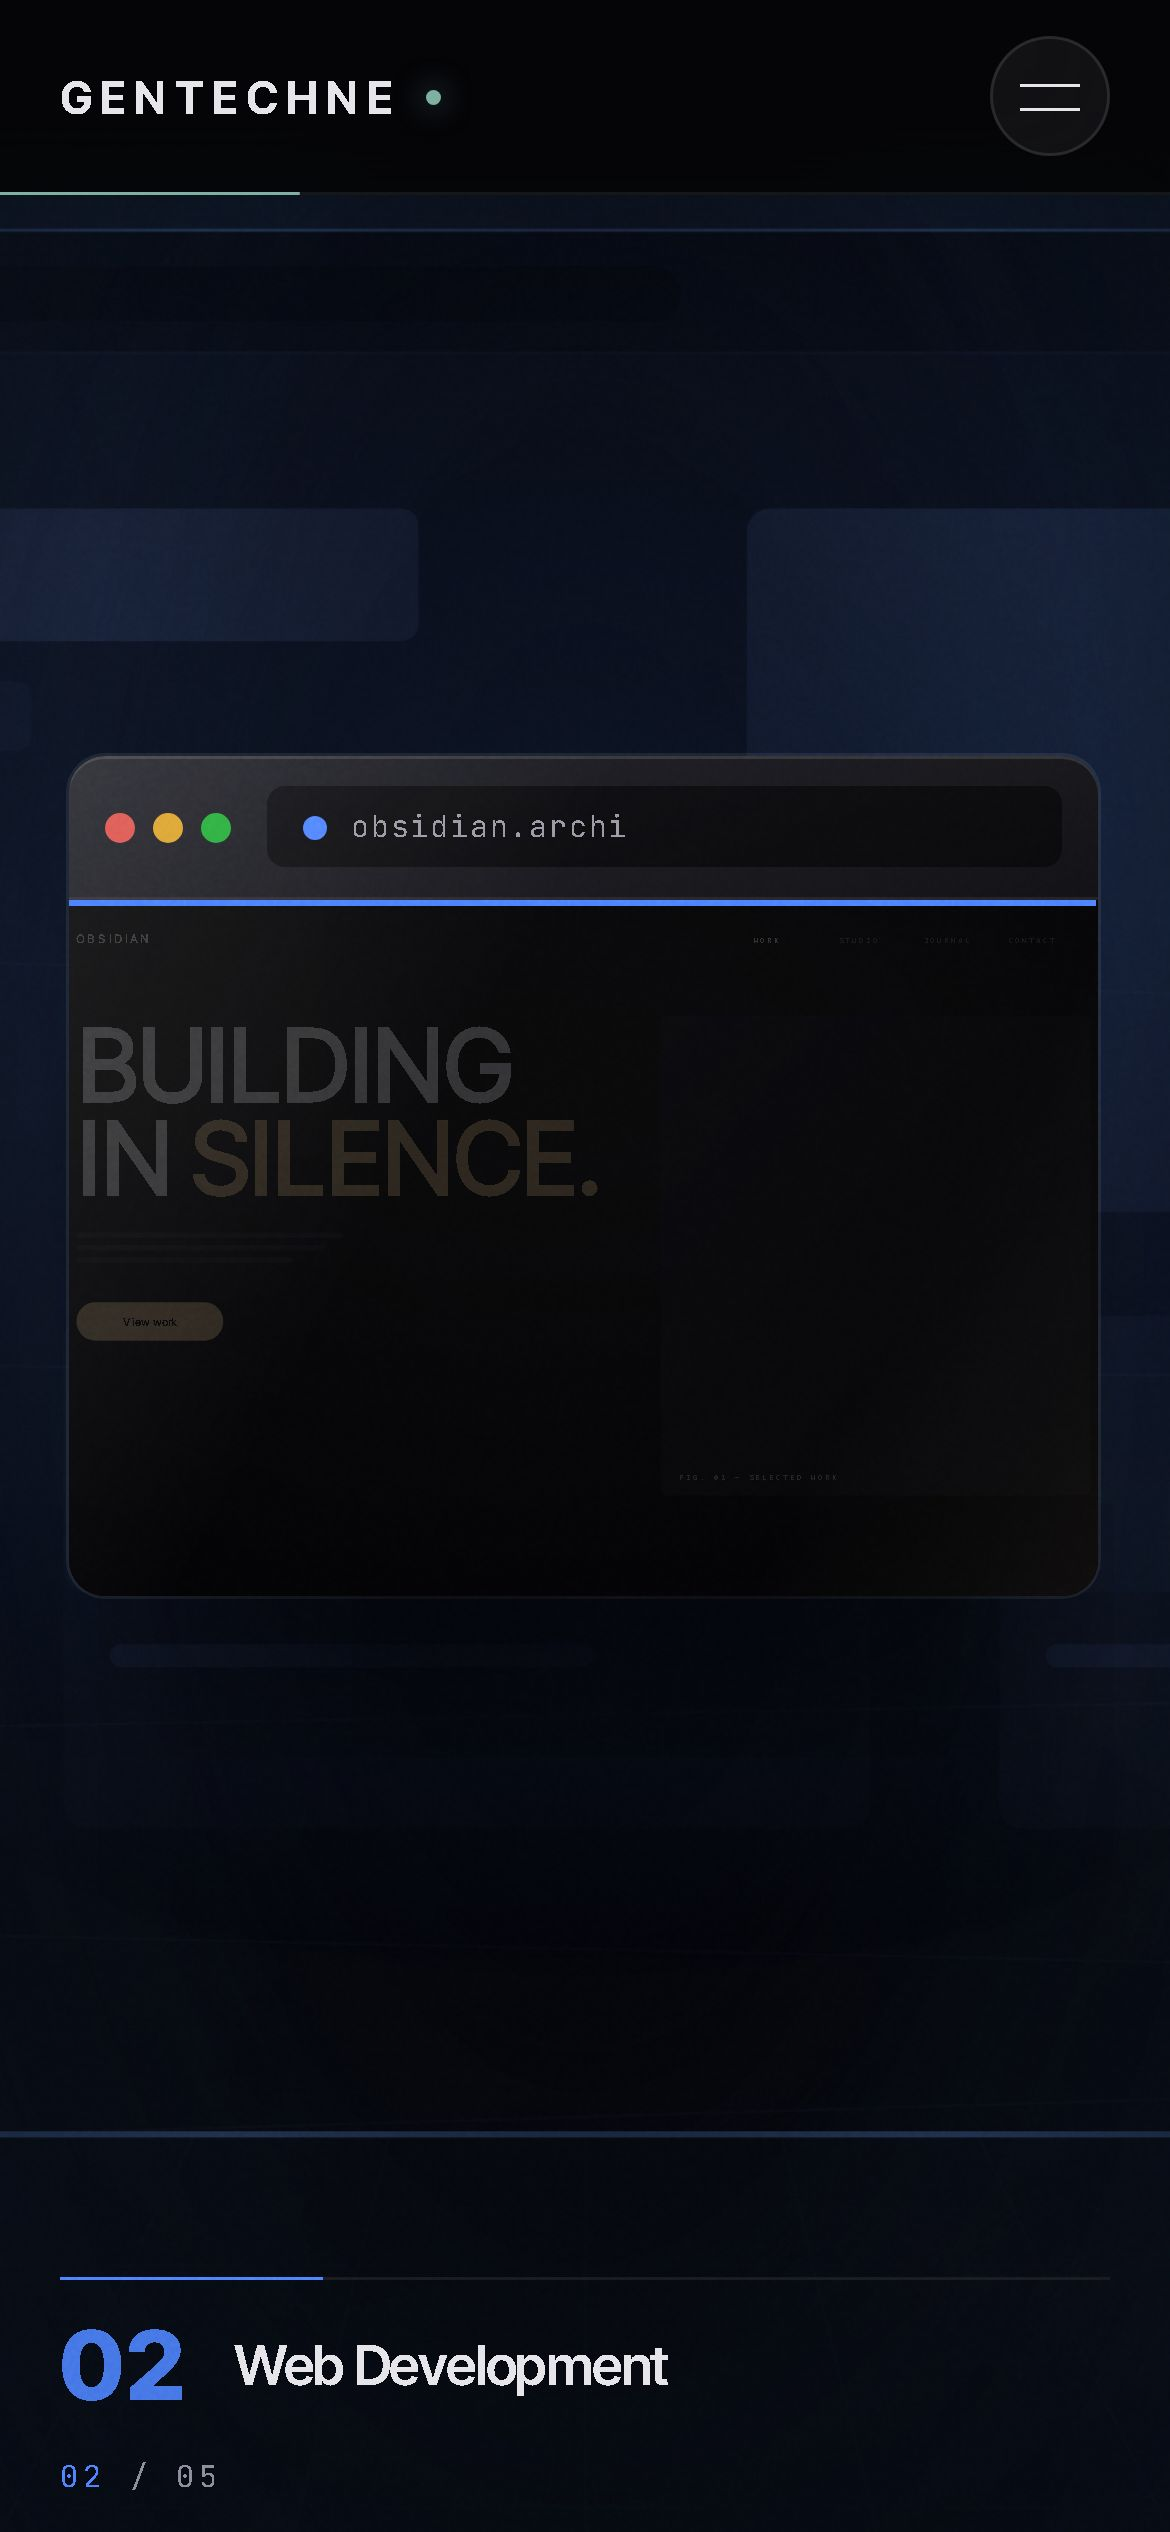
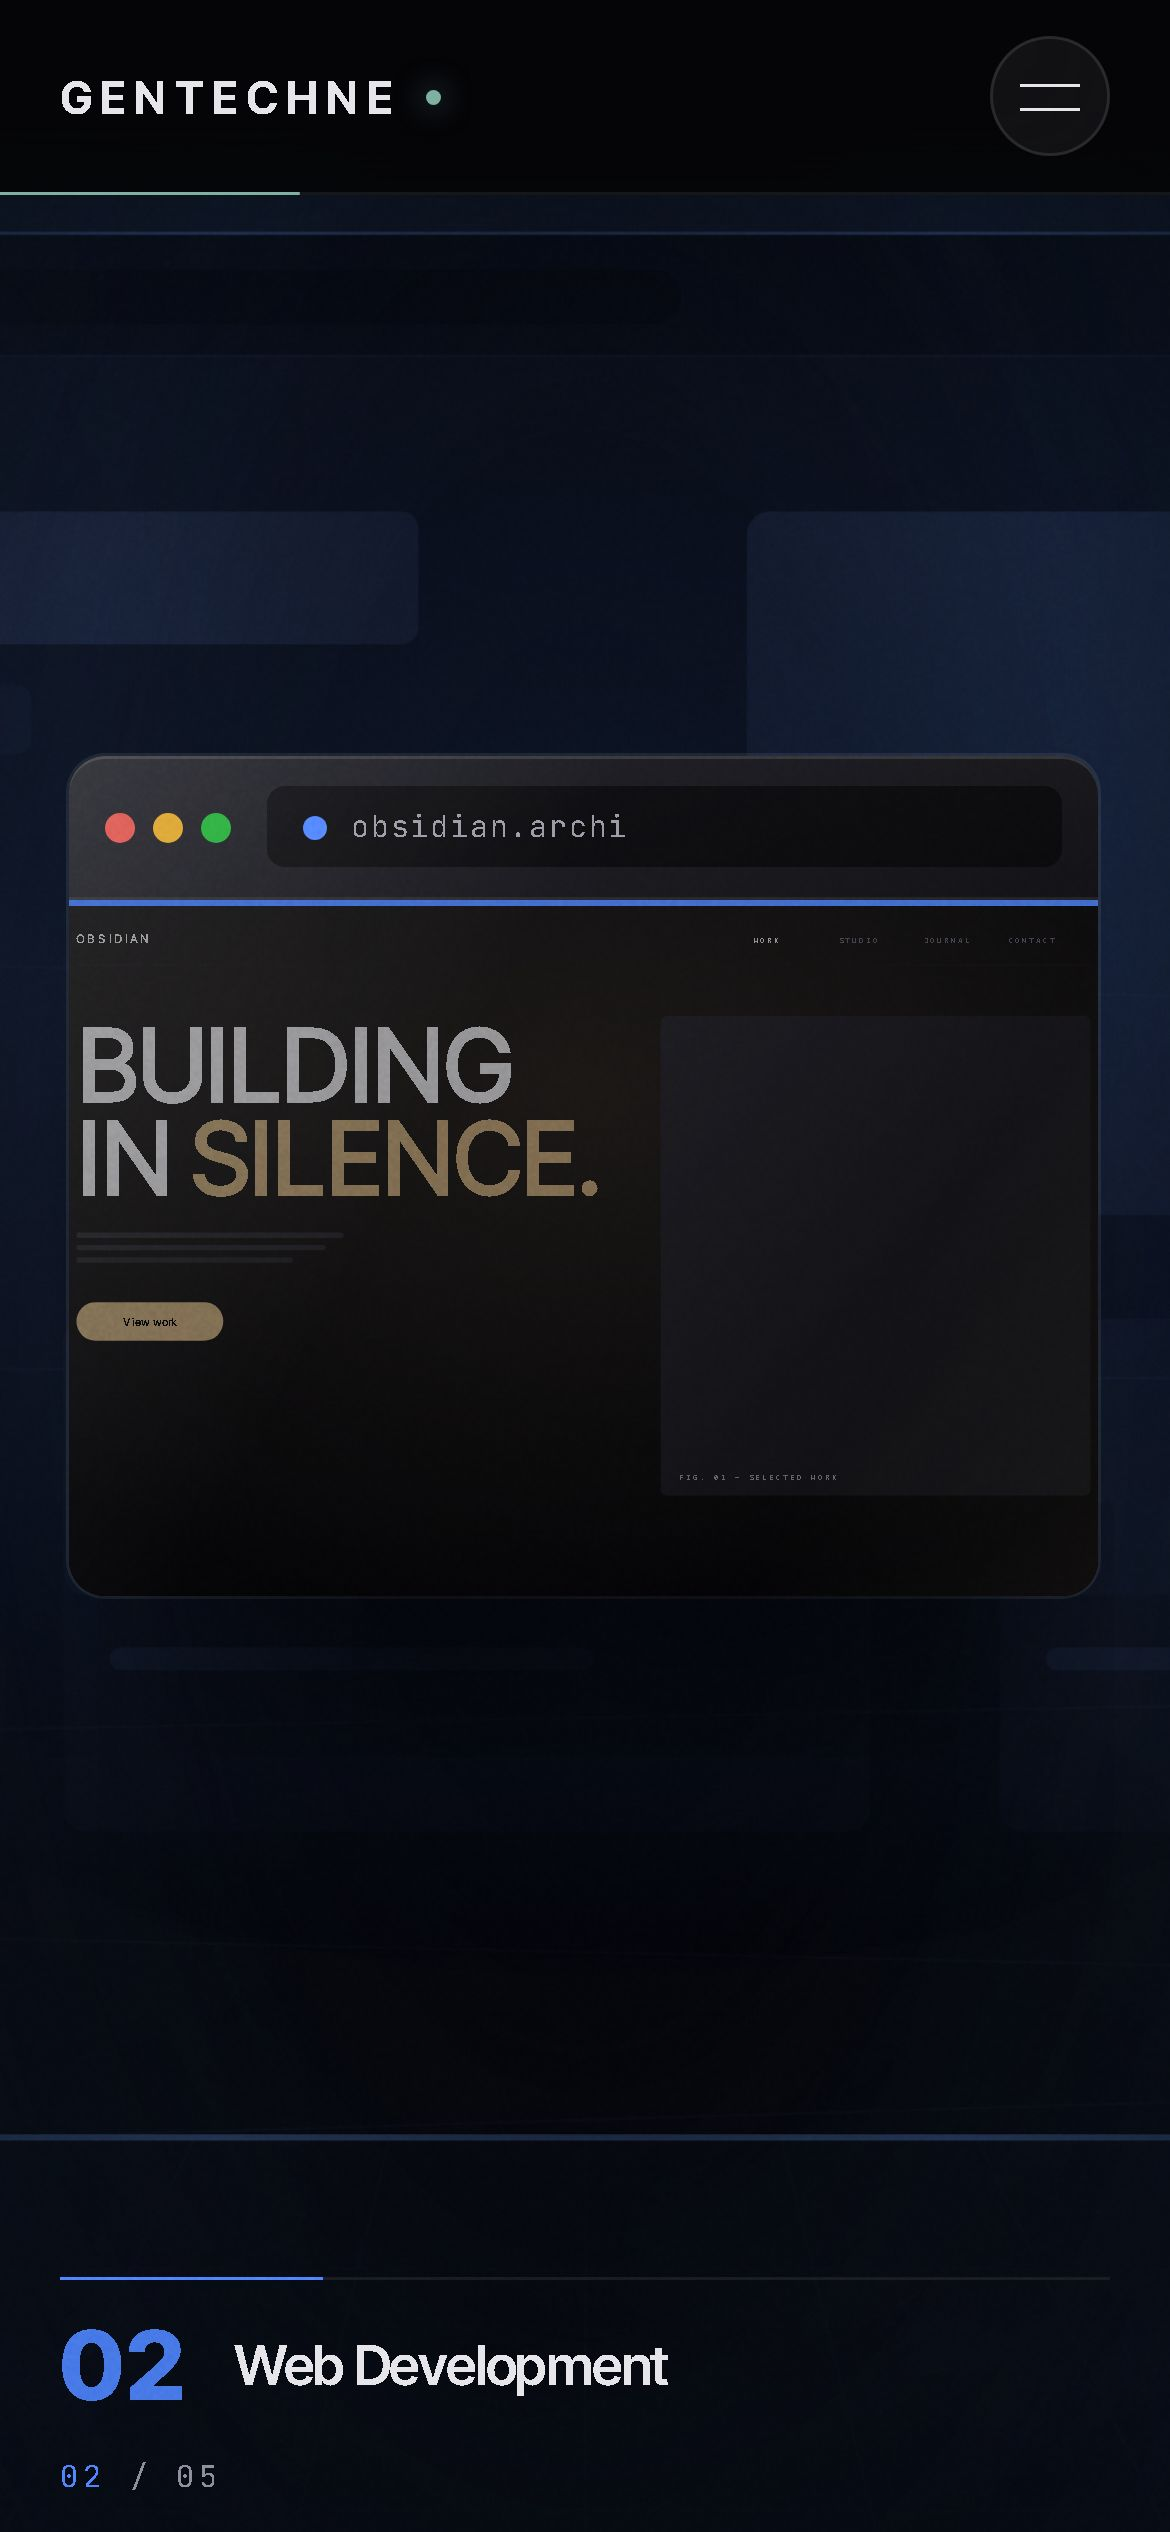
all done

Changed region(s): [[0.0615, 0.4056, 0.4923, 0.4992], [0.0615, 0.4992, 0.1846, 0.5304], [0.0615, 0.3432, 0.1231, 0.3744]]

diff --git a/frontend/src/components/ui/PageField.jsx b/frontend/src/components/ui/PageField.jsx
@@ -223,6 +223,8 @@ export function PageField() {
 
     let raf = 0
     let last = 0
+    let stillUnsub = null
+    let stillResize = null
     /* 30fps. The field moves at 0.045 units a second — a dropped frame is not
        perceivable there, and halving the draw rate halves the cost of the most
        expensive thing on the page. */
@@ -259,7 +261,8 @@ export function PageField() {
     resize()
     window.addEventListener('resize', resize)
 
-    if (reducedMotion) {
+    /* One still frame, at whatever colour the page is currently on. */
+    const drawStill = () => {
       cur = hexToRgb(target.key)
       curDeep = hexToRgb(target.deep)
       gl.uniform2f(U.res, w, h)
@@ -269,6 +272,28 @@ export function PageField() {
       gl.uniform2f(U.pointer, 0, 0)
       gl.uniform1f(U.bias, 0.5)
       gl.drawArrays(gl.TRIANGLES, 0, 3)
+    }
+
+    if (reducedMotion) {
+      /*
+       * This used to draw once and stop. The canvas is opaque, so it covers the
+       * CSS fallback underneath — and that one frame was painted at whatever
+       * accent happened to be set at mount, which is the brass default. The
+       * result: the hero cycled through its four worlds, the button and the
+       * type changed colour, and the background stayed the same brown for the
+       * whole page. Reported from a phone, where reduced motion is common.
+       *
+       * Changing colour is not motion. Redrawing the still frame when the
+       * section colour changes keeps the promise reduced motion actually makes
+       * — nothing moves — while letting the page stay one piece.
+       */
+      drawStill()
+      stillUnsub = onAccent((a) => {
+        target = a
+        drawStill()
+      })
+      stillResize = () => drawStill()
+      window.addEventListener('resize', stillResize)
     } else {
       window.addEventListener('pointermove', onMove, { passive: true })
       raf = requestAnimationFrame(frame)
@@ -277,6 +302,8 @@ export function PageField() {
     return () => {
       cancelAnimationFrame(raf)
       unsubscribe()
+      stillUnsub?.()
+      if (stillResize) window.removeEventListener('resize', stillResize)
       window.removeEventListener('resize', resize)
       window.removeEventListener('pointermove', onMove)
       gl.deleteProgram(prog)

diff --git a/frontend/src/components/navigation/Nav.jsx b/frontend/src/components/navigation/Nav.jsx
@@ -222,13 +222,12 @@ export function Nav() {
           aria-hidden="true"
           className={cn(
             'pointer-events-none absolute inset-x-0 top-0 transition-all duration-700 ease-out-expo',
-            condensed ? 'h-full opacity-100' : 'h-[160%] opacity-90 max-md:h-full max-md:opacity-100',
+            condensed ? 'h-full opacity-100' : 'h-[160%] opacity-90',
           )}
           style={{
-            background:
-              condensed || isMobile
-                ? 'linear-gradient(180deg, rgba(5,5,7,0.97) 0%, rgba(5,5,7,0.94) 100%)'
-                : 'linear-gradient(180deg, rgba(5,5,7,0.72) 0%, rgba(5,5,7,0.28) 55%, rgba(5,5,7,0) 100%)',
+            background: condensed
+              ? 'linear-gradient(180deg, rgba(5,5,7,0.97) 0%, rgba(5,5,7,0.94) 100%)'
+              : 'linear-gradient(180deg, rgba(5,5,7,0.72) 0%, rgba(5,5,7,0.28) 55%, rgba(5,5,7,0) 100%)',
             /*
              * Blur ONLY when condensed, where this layer is exactly the height
              * of the bar. At rest it is 160% tall so it hangs below the
@@ -236,8 +235,8 @@ export function Nav() {
              * a visibly blurred band sitting under the line with nothing to
              * explain it. The gradient alone fades out cleanly.
              */
-            backdropFilter: condensed || isMobile ? 'blur(14px)' : 'none',
-            WebkitBackdropFilter: condensed || isMobile ? 'blur(14px)' : 'none',
+            backdropFilter: condensed ? 'blur(14px)' : 'none',
+            WebkitBackdropFilter: condensed ? 'blur(14px)' : 'none',
           }}
         />
 
